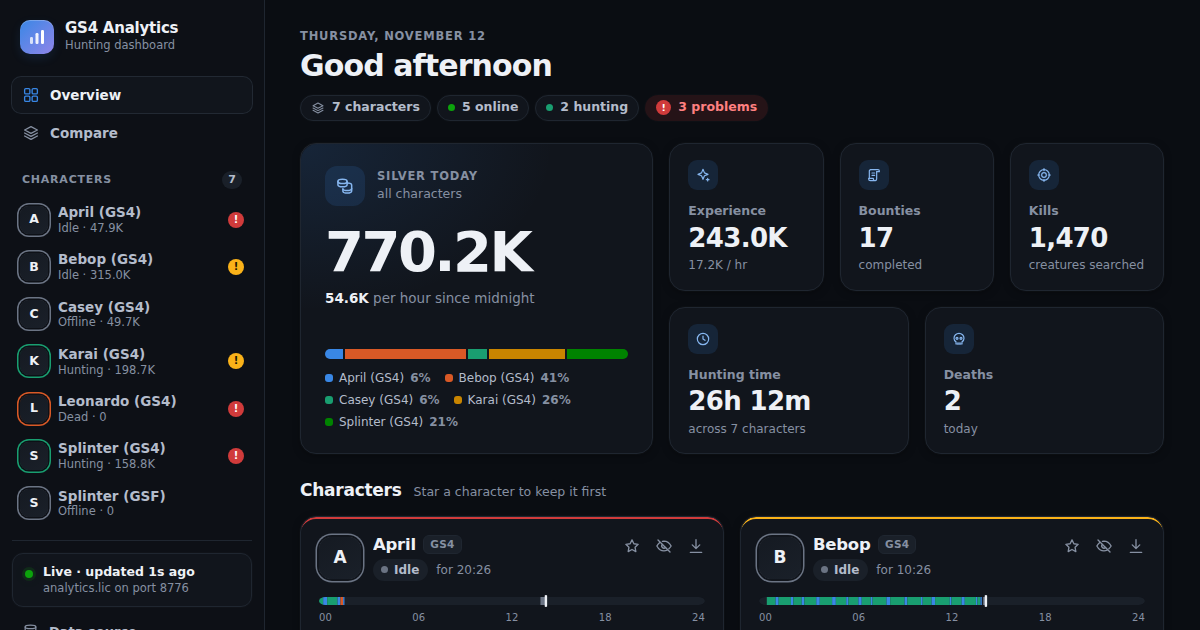
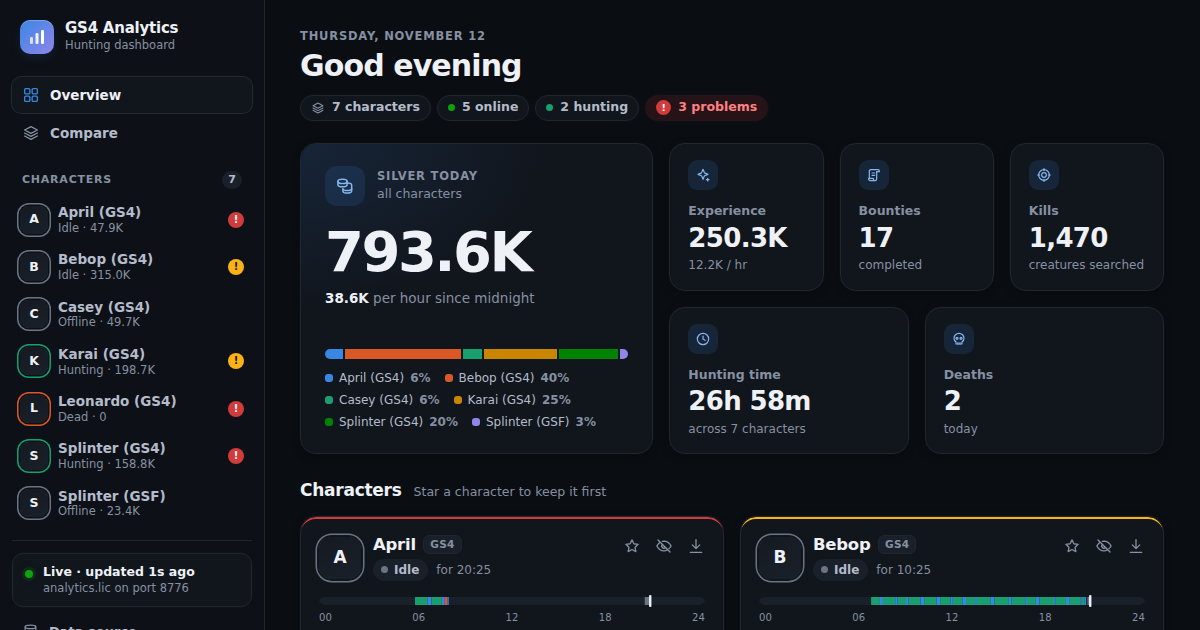
docs(site): a privacy section, an unofficial-tool line, and the BSD 3-Clause license
- LICENSE: BSD 3-Clause, copyright Elanthia Online, as lich-5 is.
- The guide's Privacy section: what the script keeps and where, Discord
  alerts as the one thing sent off the computer, GitHub Pages' visit
  logs, what the browser keeps for the site, and how to delete it all.
- Every page's footer links it and says the tool is fan-made and not
  affiliated with Simutronics.
- What's changed, decisions and open questions (#5 settled).

diff --git a/site/guide/index.html b/site/guide/index.html
@@ -72,6 +72,7 @@
         <li><a href="#hooks">For script authors</a></li>
         <li><a href="#maintenance">Maintenance and backups</a></li>
         <li><a href="#troubleshooting">Troubleshooting</a></li>
+        <li><a href="#privacy">Privacy</a></li>
         <li><a href="#faq">FAQ</a></li>
       </ol>
       <p class="toc-more"><a href="changes.html">What's changed</a></p>
@@ -432,11 +433,23 @@ end</code></pre>
         </dl>
       </section>
 
+      <section id="privacy" class="card">
+        <h2>Privacy</h2>
+        <p>There are no accounts, no cookies, no analytics and no ads, and nothing you record is sent to us.</p>
+        <ul>
+          <li><b>The script</b> writes what it records about your own characters to <code>analytics.db</code> and its settings files, in Lich's data folder on your computer. It reads your game text and leaves out what other players say, whisper or think. It sends nothing over the internet itself. Its <a href="#dashboard">dashboard feed</a> answers only this computer, and gives the database only to this site, pages on this computer, and any you name in <code>dashboard.allowed_origins</code>.</li>
+          <li><b>Discord</b>: with <code>discord</code> on (see <a href="#alerts">Alerts</a>), alerts and the daily digest go through discordhook to the Discord channel you set it up for: your character's name and the alert's figures. Turn <code>discord</code> off to send nothing.</li>
+          <li><b>This site</b> is hosted on GitHub Pages. GitHub keeps logs of visits (your IP address among them) under its own privacy statement. The pages load nothing from anywhere else, and their security policy stops them from doing so.</li>
+          <li><b>The dashboard</b> reads your database inside your browser, from the script, a folder or a file you choose. It's never uploaded. The browser keeps your choices for this site: the theme, settings and alert settings, pinned and hidden characters, dismissed alerts, targets, and which source you used (for a folder, the browser's permission to read it again).</li>
+        </ul>
+        <p><b>To delete it all</b>: delete <code>analytics.db</code> (and its <code>-wal</code> and <code>-shm</code> files) with the script stopped, and the <code>analytics.yaml</code> files if you like; then, in your browser's settings for this site, clear its data.</p>
+      </section>
+
       <section id="faq" class="card">
         <h2>FAQ</h2>
         <dl class="qa">
           <dt>Is my data sent anywhere?</dt>
-          <dd>No. The database stays on your computer. The dashboard page is downloaded from this site, but it reads your data inside your browser.</dd>
+          <dd>No. The database stays on your computer. The dashboard page is downloaded from this site, but it reads your data inside your browser. Discord alerts, if you turn them on, are the one exception. See <a href="#privacy">Privacy</a>.</dd>
           <dt>Can I run it on several characters at once?</dt>
           <dd>Yes, one copy per Lich session, all sharing one database. Feed the dashboard from any one of them.</dd>
           <dt>Does it work in Shattered?</dt>
@@ -448,7 +461,7 @@ end</code></pre>
     </div>
   </div>
   </main>
-  <footer class="foot"><a href="../">Dashboard</a> &middot; <a href="changes.html">What's changed</a> &middot; <a href="https://github.com/elanthia-online/analytics">Source</a> &middot; <a href="https://github.com/elanthia-online/analytics/blob/main/docs/roadmap.md">Roadmap</a></footer>
+  <footer class="foot"><a href="../">Dashboard</a> &middot; <a href="changes.html">What's changed</a> &middot; <a href="https://github.com/elanthia-online/analytics">Source</a> &middot; <a href="https://github.com/elanthia-online/analytics/blob/main/docs/roadmap.md">Roadmap</a> &middot; <a href="#privacy">Privacy</a><span class="foot-note">Fan-made and unofficial: not affiliated with or endorsed by Simutronics. GemStone IV is a trademark of Simutronics Corp.</span></footer>
 </div>
 </body>
 </html>

diff --git a/site/guide/changes.html b/site/guide/changes.html
@@ -58,6 +58,13 @@
     <!-- Newest first. One section per release, id="v<version>" (script releases) or
          id="d<yyyy-mm-dd>" (a dashboard-only change). Mark each item Script or Dashboard.
          Write for players: what changed, and what to do about it, if anything. -->
+    <section id="d2026-11-12-privacy" class="card">
+      <h2>November 12, 2026 &middot; dashboard and guide</h2>
+      <ul>
+        <li><span class="chip">Dashboard</span> A <a href="./#privacy">Privacy</a> section in the guide: what the script keeps on your computer, that Discord alerts (if you turn them on) are all it sends anywhere, what your browser keeps for this site, and how to delete it all. Every page's footer links it.</li>
+        <li><span class="chip">Dashboard</span> The footer says what was always true: this is a fan-made tool, not affiliated with Simutronics. This site's code is now BSD 3-Clause licensed, as Lich is.</li>
+      </ul>
+    </section>
     <section id="d2026-11-12-audit" class="card">
       <h2>November 12, 2026 &middot; dashboard, from the second audit</h2>
       <ul>
@@ -133,7 +140,7 @@
     </section>
   </div>
   </main>
-  <footer class="foot"><a href="../">Dashboard</a> &middot; <a href="./">Guide</a> &middot; <a href="https://github.com/elanthia-online/analytics">Source</a> &middot; <a href="https://github.com/elanthia-online/analytics/blob/main/docs/roadmap.md">Roadmap</a></footer>
+  <footer class="foot"><a href="../">Dashboard</a> &middot; <a href="./">Guide</a> &middot; <a href="https://github.com/elanthia-online/analytics">Source</a> &middot; <a href="https://github.com/elanthia-online/analytics/blob/main/docs/roadmap.md">Roadmap</a> &middot; <a href="./#privacy">Privacy</a><span class="foot-note">Fan-made and unofficial: not affiliated with or endorsed by Simutronics. GemStone IV is a trademark of Simutronics Corp.</span></footer>
 </div>
 </body>
 </html>

diff --git a/site/index.html b/site/index.html
@@ -175,7 +175,7 @@
       <div id="detail" hidden></div>
       <div id="compare" hidden></div>
       <div id="settingsPage" hidden></div>
-      <footer class="foot"><span id="footText">Your data never leaves this computer</span><span class="foot-links"><a href="guide/">Guide</a><a href="guide/changes.html">What's changed</a><a href="https://github.com/elanthia-online/analytics">Source</a><a href="https://github.com/elanthia-online/analytics/blob/main/docs/roadmap.md">Roadmap</a></span></footer>
+      <footer class="foot"><span id="footText">Your data never leaves this computer</span><span class="foot-links"><a href="guide/">Guide</a><a href="guide/changes.html">What's changed</a><a href="https://github.com/elanthia-online/analytics">Source</a><a href="https://github.com/elanthia-online/analytics/blob/main/docs/roadmap.md">Roadmap</a><a href="guide/#privacy">Privacy</a></span><span class="foot-note">Fan-made and unofficial: not affiliated with or endorsed by Simutronics. GemStone IV is a trademark of Simutronics Corp.</span></footer>
     </main>
   </div>
 </div>

diff --git a/site/404.html b/site/404.html
@@ -36,7 +36,7 @@
     </div>
   </main>
 
-  <footer class="foot"><a href="/">Dashboard</a> &middot; <a href="/guide/">Guide</a> &middot; <a href="https://github.com/elanthia-online/analytics">Source</a> &middot; <a href="https://github.com/elanthia-online/analytics/issues/new?template=5-guide.yml">Report a broken link</a></footer>
+  <footer class="foot"><a href="/">Dashboard</a> &middot; <a href="/guide/">Guide</a> &middot; <a href="https://github.com/elanthia-online/analytics">Source</a> &middot; <a href="https://github.com/elanthia-online/analytics/issues/new?template=5-guide.yml">Report a broken link</a> &middot; <a href="/guide/#privacy">Privacy</a><span class="foot-note">Fan-made and unofficial: not affiliated with or endorsed by Simutronics. GemStone IV is a trademark of Simutronics Corp.</span></footer>
 </div>
 </body>
 </html>

diff --git a/site/css/dashboard.css b/site/css/dashboard.css
@@ -572,6 +572,8 @@ svg .seg:hover { opacity: .8; }
 .tip.on { opacity: 1; }
 .foot { display: flex; justify-content: space-between; align-items: center; flex-wrap: wrap; gap: 8px 16px; color: var(--muted); font-size: 12px; margin-top: 36px; padding-top: 18px; border-top: 1px solid var(--line); }
 .foot-links { display: flex; gap: 16px; }
+/* The unofficial-tool line, on a row of its own under the links */
+.foot-note { flex-basis: 100%; font-size: 11px; }
 .foot a { color: var(--ink-2); text-decoration: none; font-weight: 560; }
 .foot a:hover { color: var(--ink); text-decoration: underline; }
 

diff --git a/docs/decisions.md b/docs/decisions.md
@@ -2,6 +2,21 @@
 
 Newest first. Each entry: the decision, why, and what was rejected.
 
+## 2026-11-12: BSD 3-Clause, a privacy section, and an unofficial-tool line
+
+**Decision.** The repo is BSD 3-Clause licensed (`LICENSE`, `package.json`), copyright
+Elanthia Online. The guide has a Privacy section: what the script keeps and where, that
+Discord alerts are the one thing sent off the computer, GitHub Pages' visit logs, what the
+browser keeps, and how to delete it all. Every page's footer links it and says the tool is
+fan-made and not affiliated with Simutronics, whose trademark GemStone IV is.
+
+**Why.** A launch checklist. With no license nobody could reuse the code; the site said
+nothing on privacy beyond a FAQ line; and "GS4" in the name could read as official.
+
+**Rejected.** GPL 2.0: lich-5 was GPL until it moved to BSD 3-Clause (elanthia-online/lich-5#1173, Feb 2026),
+and matching it keeps the ecosystem on one license. A separate privacy policy page: there
+are no accounts or tracking to describe, and the guide is where players look.
+
 ## 2026-11-12: The locksmith pool is one pool, so its change crosses towns
 
 **Decision.** The pool's change, peak and first count are taken over every list in the

diff --git a/docs/open-questions.md b/docs/open-questions.md
@@ -29,9 +29,7 @@ Things that need a decision or a check this repo can't do on its own. Move an it
 
 ## Needs a decision
 
-5. **License.** The repo has no license yet, so by default nobody may reuse it.
-   elanthia-online/lich-5 is GPL-2.0; elanthia-online/scripts has no license file at the
-   root. The vendored sql.js is MIT, and its license ships beside it either way.
+5. ~~License~~: settled, see decisions.md (BSD 3-Clause, as lich-5).
 6. ~~LAN mode~~: settled, see decisions.md (dropped).
 7. ~~Shared `elanthia-online.github.io` origin~~: settled, see decisions.md (own domain).
 8. **Database size.** `/api/db` re-sends the whole database after every change, which

diff --git a/README.md b/README.md
@@ -175,5 +175,7 @@ well, not with a `CNAME` file: an Actions deploy ignores one. DNS is a CNAME rec
 
 ## License
 
-Not chosen yet. See [docs/open-questions.md](docs/open-questions.md). The vendored sql.js is
-MIT licensed (`site/vendor/sql.js/LICENSE`).
+BSD 3-Clause, as lich-5 is: see [LICENSE](LICENSE). The vendored sql.js is MIT licensed
+(`site/vendor/sql.js/LICENSE`).
+
+Fan-made and unofficial: not affiliated with or endorsed by Simutronics. GemStone IV is a trademark of Simutronics Corp.
